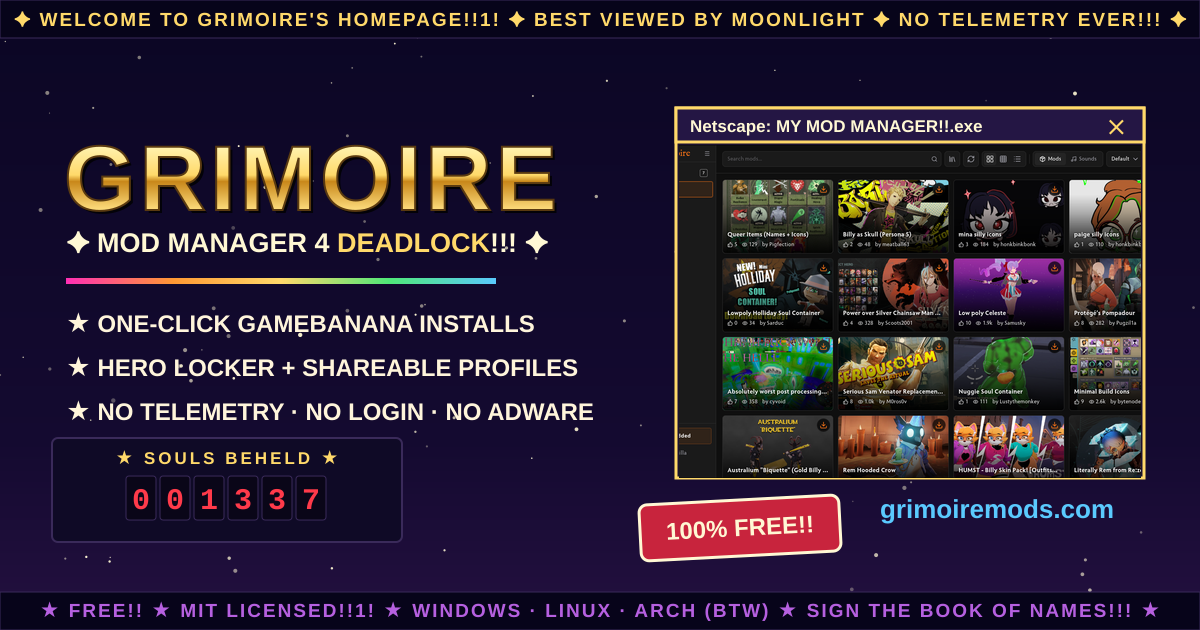
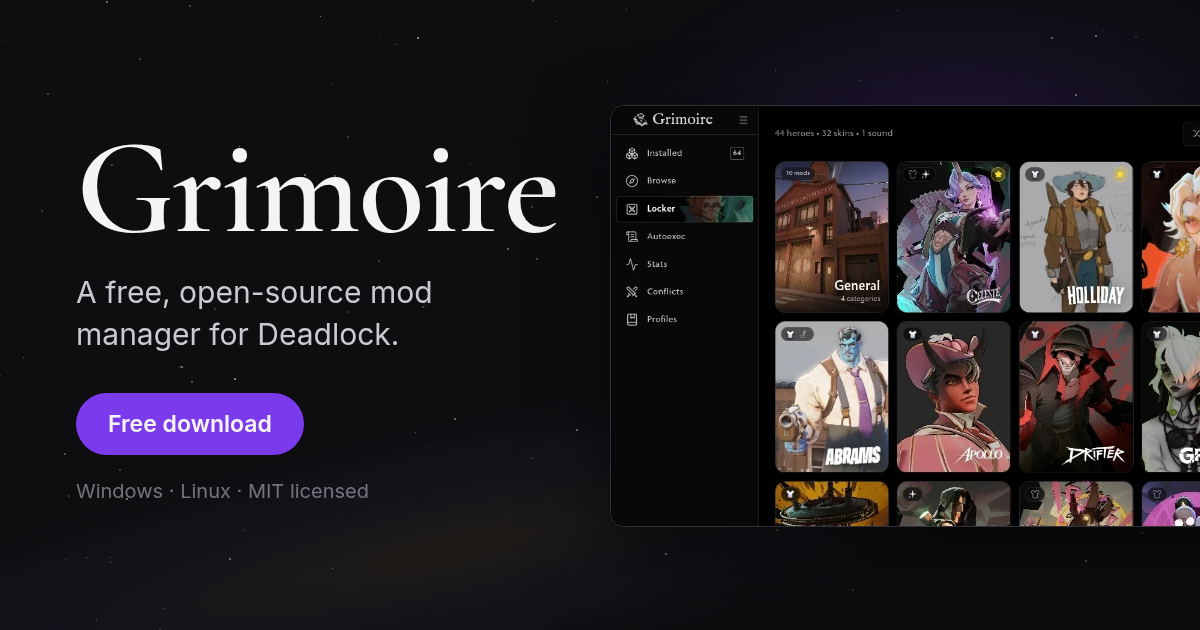
feat(site): redraw the link preview card to match the homepage hero

diff --git a/CLAUDE.md b/CLAUDE.md
@@ -115,7 +115,7 @@ pnpm install
 pnpm dev              # astro dev
 pnpm build            # astro build
 pnpm preview          # astro preview
-pnpm gen:assets       # regenerate og.png + screenshot thumbs/webp (sharp)
+pnpm gen:assets       # regenerate og.png (headless chromium, CHROME=... to override) + screenshot thumbs/webp (sharp)
 pnpm gen:fonts        # re-vendor woff2 faces + styles/fonts.css (network)
 pnpm sync:docs        # re-sync the player guide from ../grimoire (commit the result)
                       # GRIMOIRE_REPO=../grimoire-wt-x pnpm sync:docs reads another checkout
